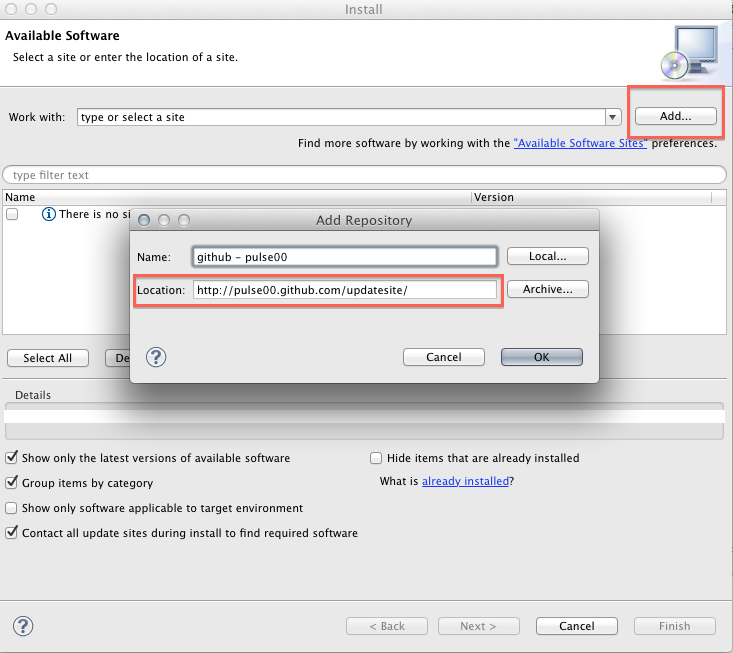
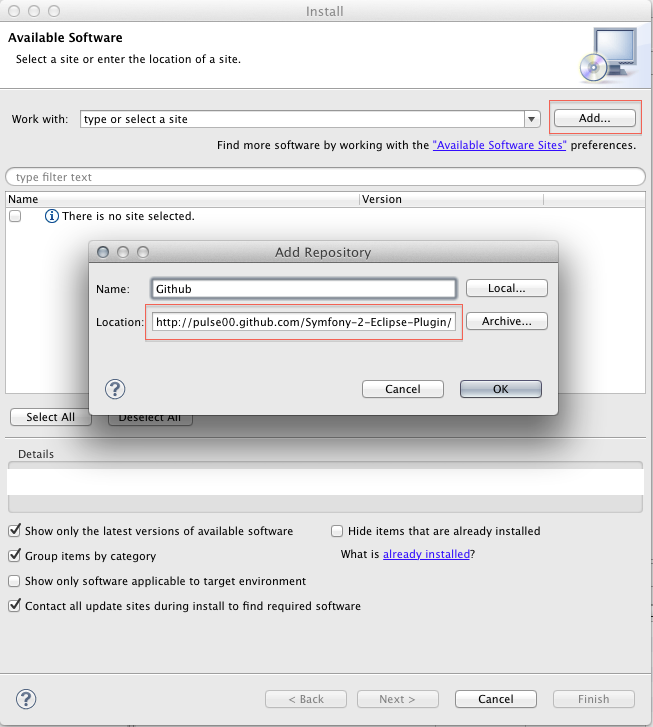
changed updatesite url

diff --git a/index.html b/index.html
@@ -94,7 +94,7 @@
 				<p>Currently a development build of the PHP Development Tools (PDT) is required to run the Symfony plugin. This development build is available in the updatesite of this plugin (see below).</p>			
 				<h2>Installation via Updatesite</h2>			
 				<p>The plugin can be installed via the regular <a href="http://help.eclipse.org/helios/index.jsp?topic=/org.eclipse.platform.doc.user/tasks/tasks-124.htm">update site mechanism.</a></p>
-				<p>The update site is located at<br/><br/> <span id="updatelink"><a href="http://pulse00.github.com/updatesite/">http://pulse00.github.com/updatesite/</a></span></p>
+				<p>The update site is located at<br/><br/> <span id="updatelink"><a href="http://pulse00.github.com/Symfony-2-Eclipse-Plugin/">http://pulse00.github.com/Symfony-2-Eclipse-Plugin/</a></span></p>
 				<br/><p>After adding the updatesite to your eclipse installation, you will see 2 categories:				
 
 				
